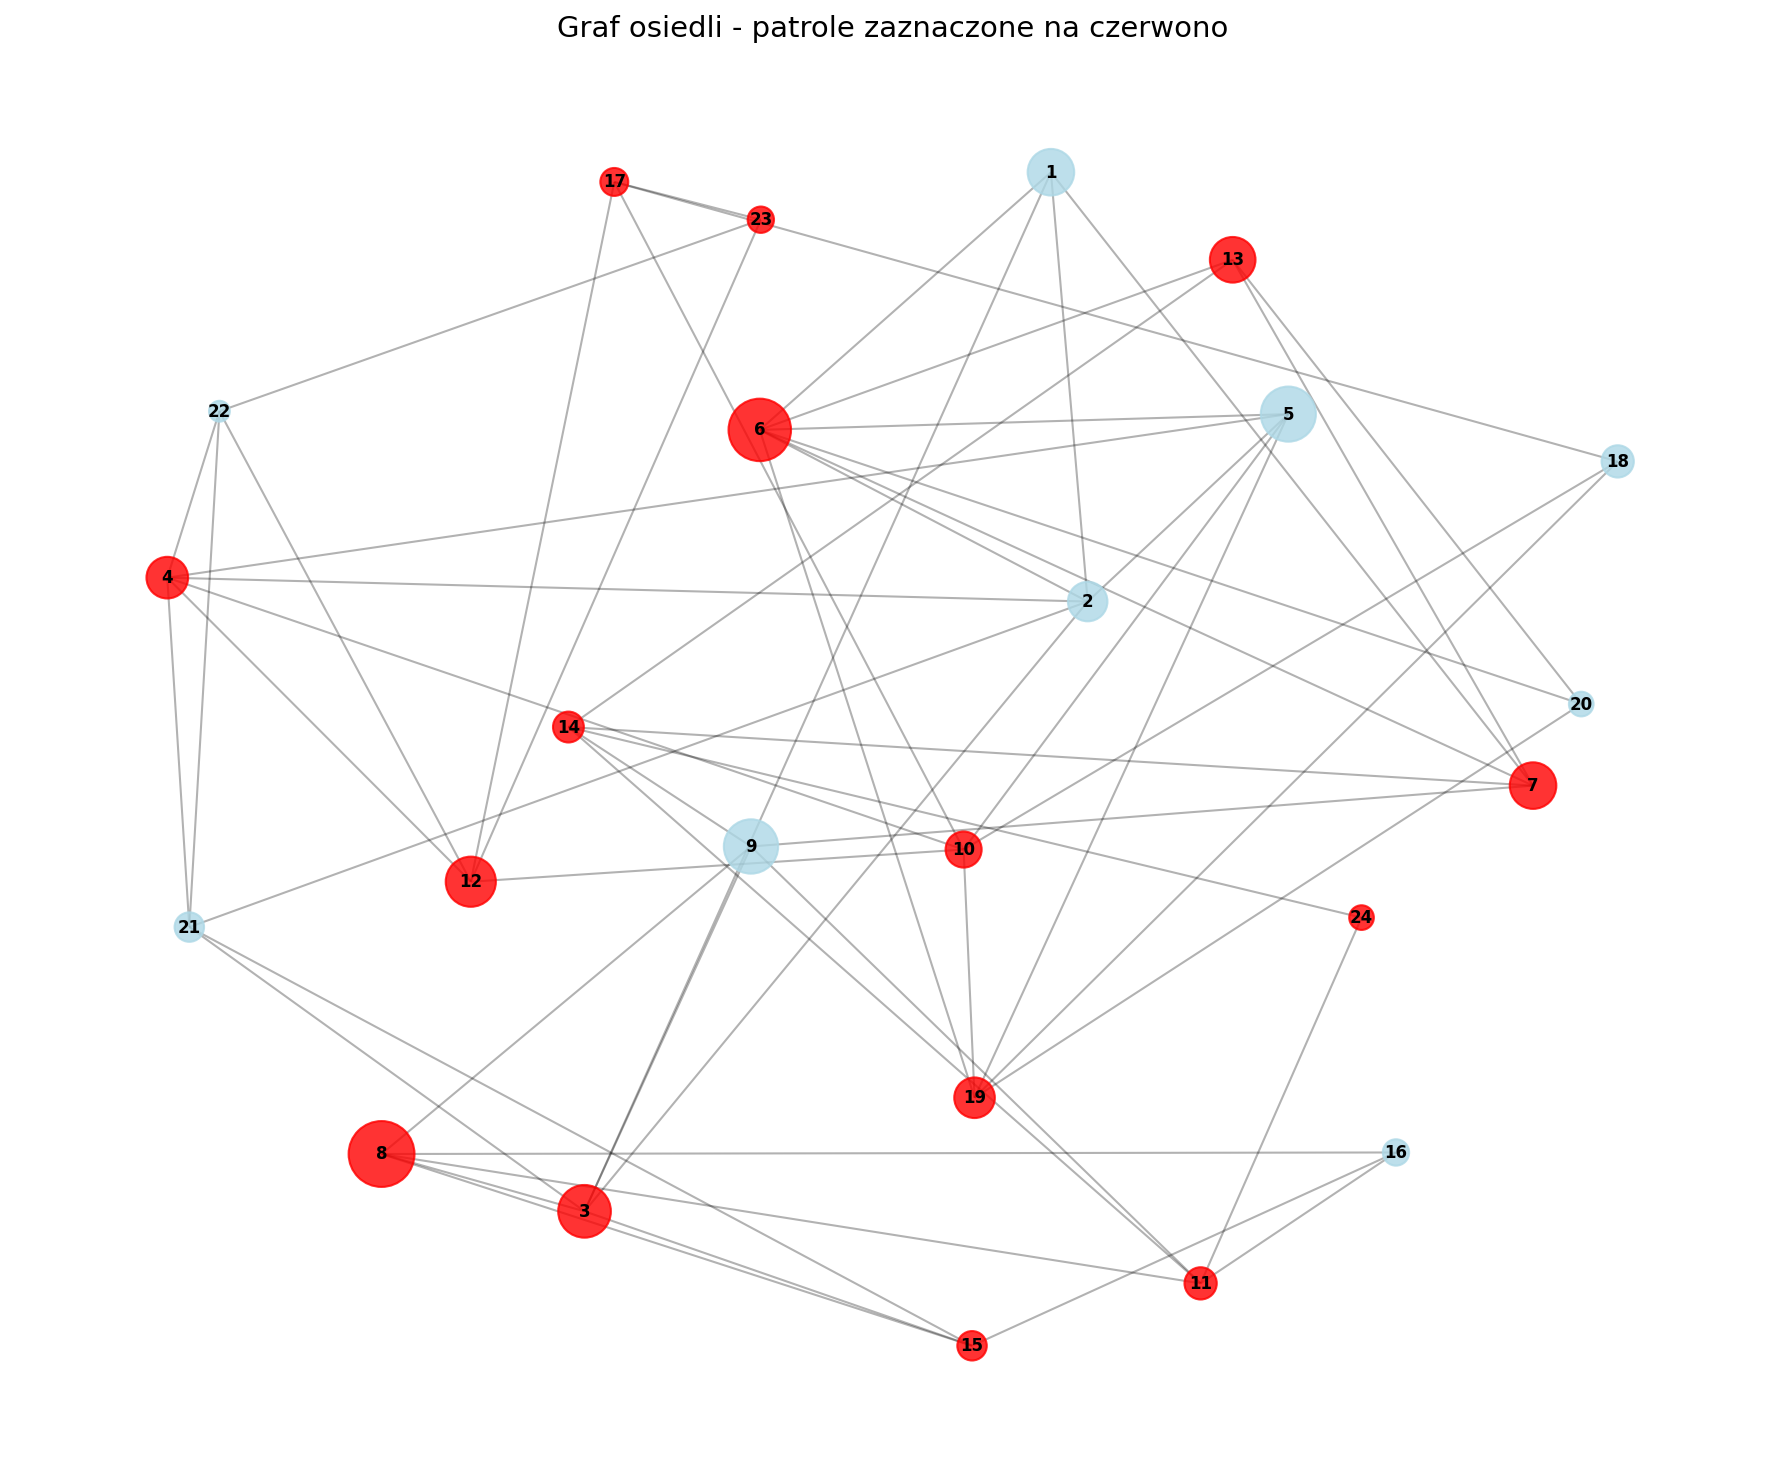
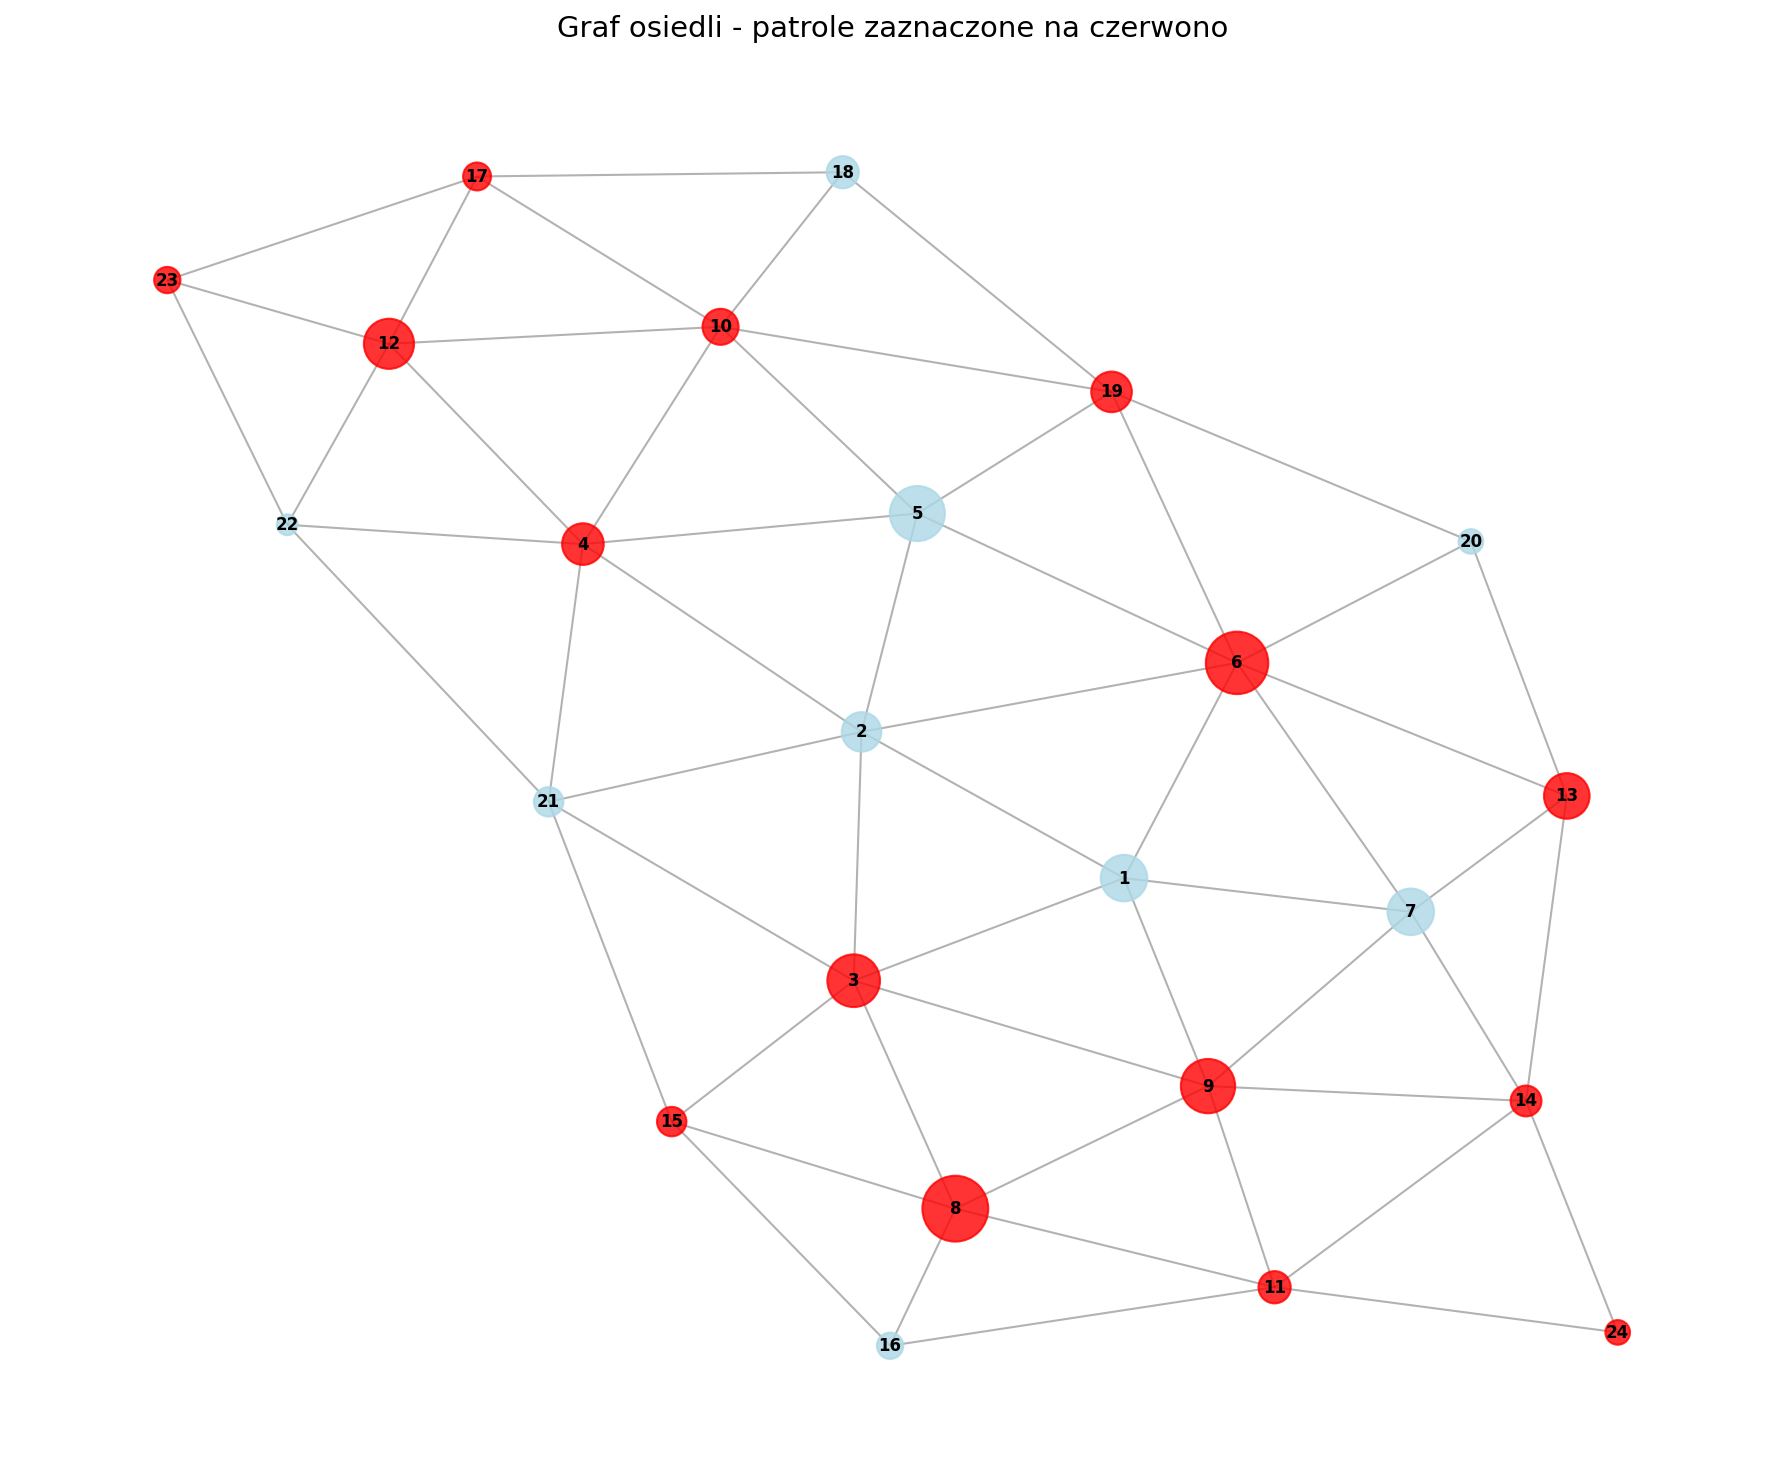
poprawka danych

diff --git a/data_hardcoded.py b/data_hardcoded.py
@@ -38,7 +38,7 @@ def get_problem_data():
 
     # Graf sąsiedztwa - lista sąsiadów dla każdego osiedla
     adjacency_list = {
-        1: [2, 3, 6, 7],
+        1: [2, 3, 6, 7, 9],
         2: [1, 3, 4, 5, 6, 21],
         3: [1, 2, 8, 9, 15, 21],
         4: [2, 5, 10, 12, 21, 22],
@@ -46,7 +46,7 @@ def get_problem_data():
         6: [1, 2, 5, 7, 13, 19, 20],
         7: [1, 6, 9, 13, 14],
         8: [3, 9, 11, 15, 16],
-        9: [3, 7, 8, 11, 14],
+        9: [1, 3, 7, 8, 11, 14],
         10: [4, 5, 12, 17, 18, 19],
         11: [8, 9, 14, 16, 24],
         12: [4, 10, 17, 22, 23],

diff --git a/graph_model.py b/graph_model.py
@@ -89,7 +89,7 @@ class SettlementGraph:
         plt.figure(figsize=(12, 10))
 
         # Użyj spring layout dla czytelnego rozmieszczenia
-        pos = nx.spring_layout(self.graph, k=2, iterations=50, seed=42)
+        pos = nx.spring_layout(self.graph, seed=42)
 
         # Przygotuj kolory węzłów
         if patrol_assignment:
@@ -107,7 +107,7 @@ class SettlementGraph:
         nx.draw_networkx_edges(self.graph, pos, alpha=0.3, width=1)
         nx.draw_networkx_labels(self.graph, pos, font_size=8, font_weight='bold')
 
-        plt.title("Graf osiedli - patrole zaznaczone na czerwono", fontsize=14)
+        plt.title("Graf osiedli, patrole zaznaczone na czerwono", fontsize=14)
         plt.axis('off')
         plt.tight_layout()
 

diff --git a/optimizer.py b/optimizer.py
@@ -64,6 +64,7 @@ class PatrolOptimizer:
         prob += pulp.lpSum([x[i] for i in self.settlements]) == self.num_patrols, "TotalPatrols"
 
         # Rozwiąż problem
+        print(prob)
         prob.solve(pulp.PULP_CBC_CMD(msg=0))
 
         # Sprawdź status